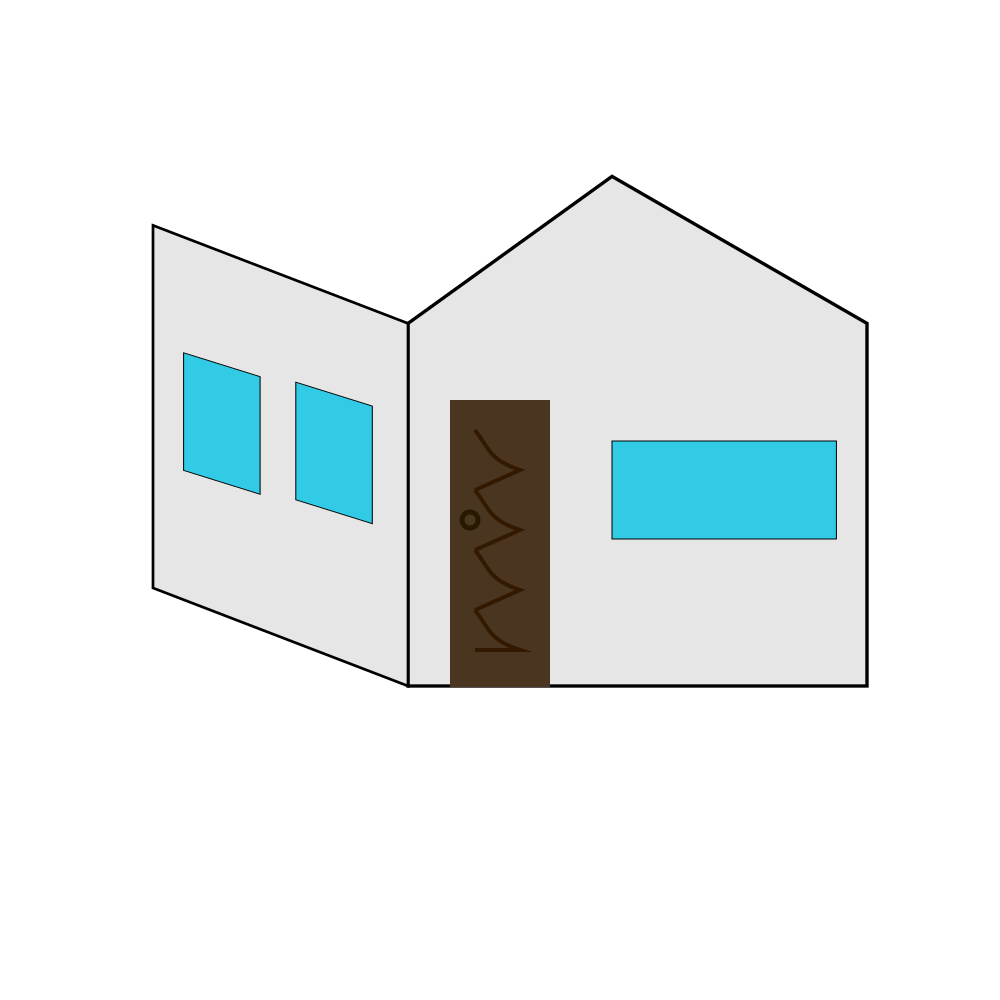
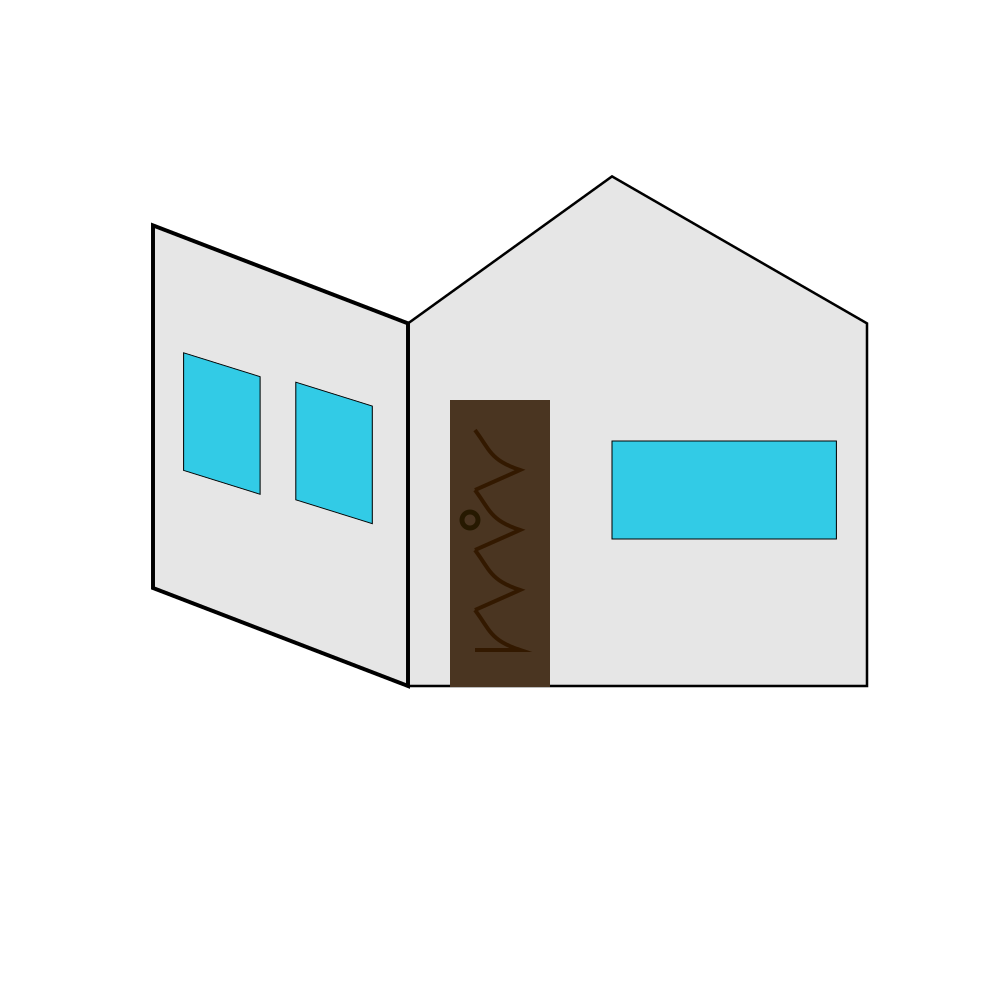
comments

Changed region(s): [[0.403, 0.31, 0.434, 0.341]]

diff --git a/house.py b/house.py
@@ -18,35 +18,27 @@ def draw_base1(ctx):
     ctx.line_to(600, 180)       
     ctx.line_to(400, 330)       
     ctx.close_path()
-
-    # Restore context to remove scaling before stroke
     ctx.restore()
 
     # Set fill color for wall
     ctx.set_source_rgb(0.9, 0.9, 0.9)
     ctx.fill_preserve()
-
-    # Set varying stroke width to make it look hand-drawn
     ctx.set_source_rgb(0, 0, 0)
-    ctx.set_line_width(random.uniform(2, 4))  # Random stroke width for cartoon effect
+    ctx.set_line_width(random.uniform(2, 4))  
     ctx.stroke()
 
 def draw_base2(ctx):
-    # Save context to apply transformations for hand-drawn effect
     ctx.save()
-    # Apply slight scaling to create irregular "hand-drawn" effect
     ctx.scale(1.02, 0.98)
-    # Adjusted coordinates for a narrower and slightly lower slant
-    ctx.move_to(400, 700)        # Moved up from 750
-    ctx.line_to(150, 600)        # Reduced width slightly from 100
-    ctx.line_to(150, 230)        # Adjusted height to match the new slant
-    ctx.line_to(400, 330)        # Kept aligned with base1 wall
+    ctx.move_to(400, 700)        
+    ctx.line_to(150, 600)    
+    ctx.line_to(150, 230)     
+    ctx.line_to(400, 330)     
     ctx.close_path()
     ctx.restore()
     # Set fill color for wall
     ctx.set_source_rgb(0.9, 0.9, 0.9)
     ctx.fill_preserve()
-
     ctx.set_source_rgb(0, 0, 0)
     ctx.set_line_width(random.uniform(2, 4))  
     ctx.stroke()
